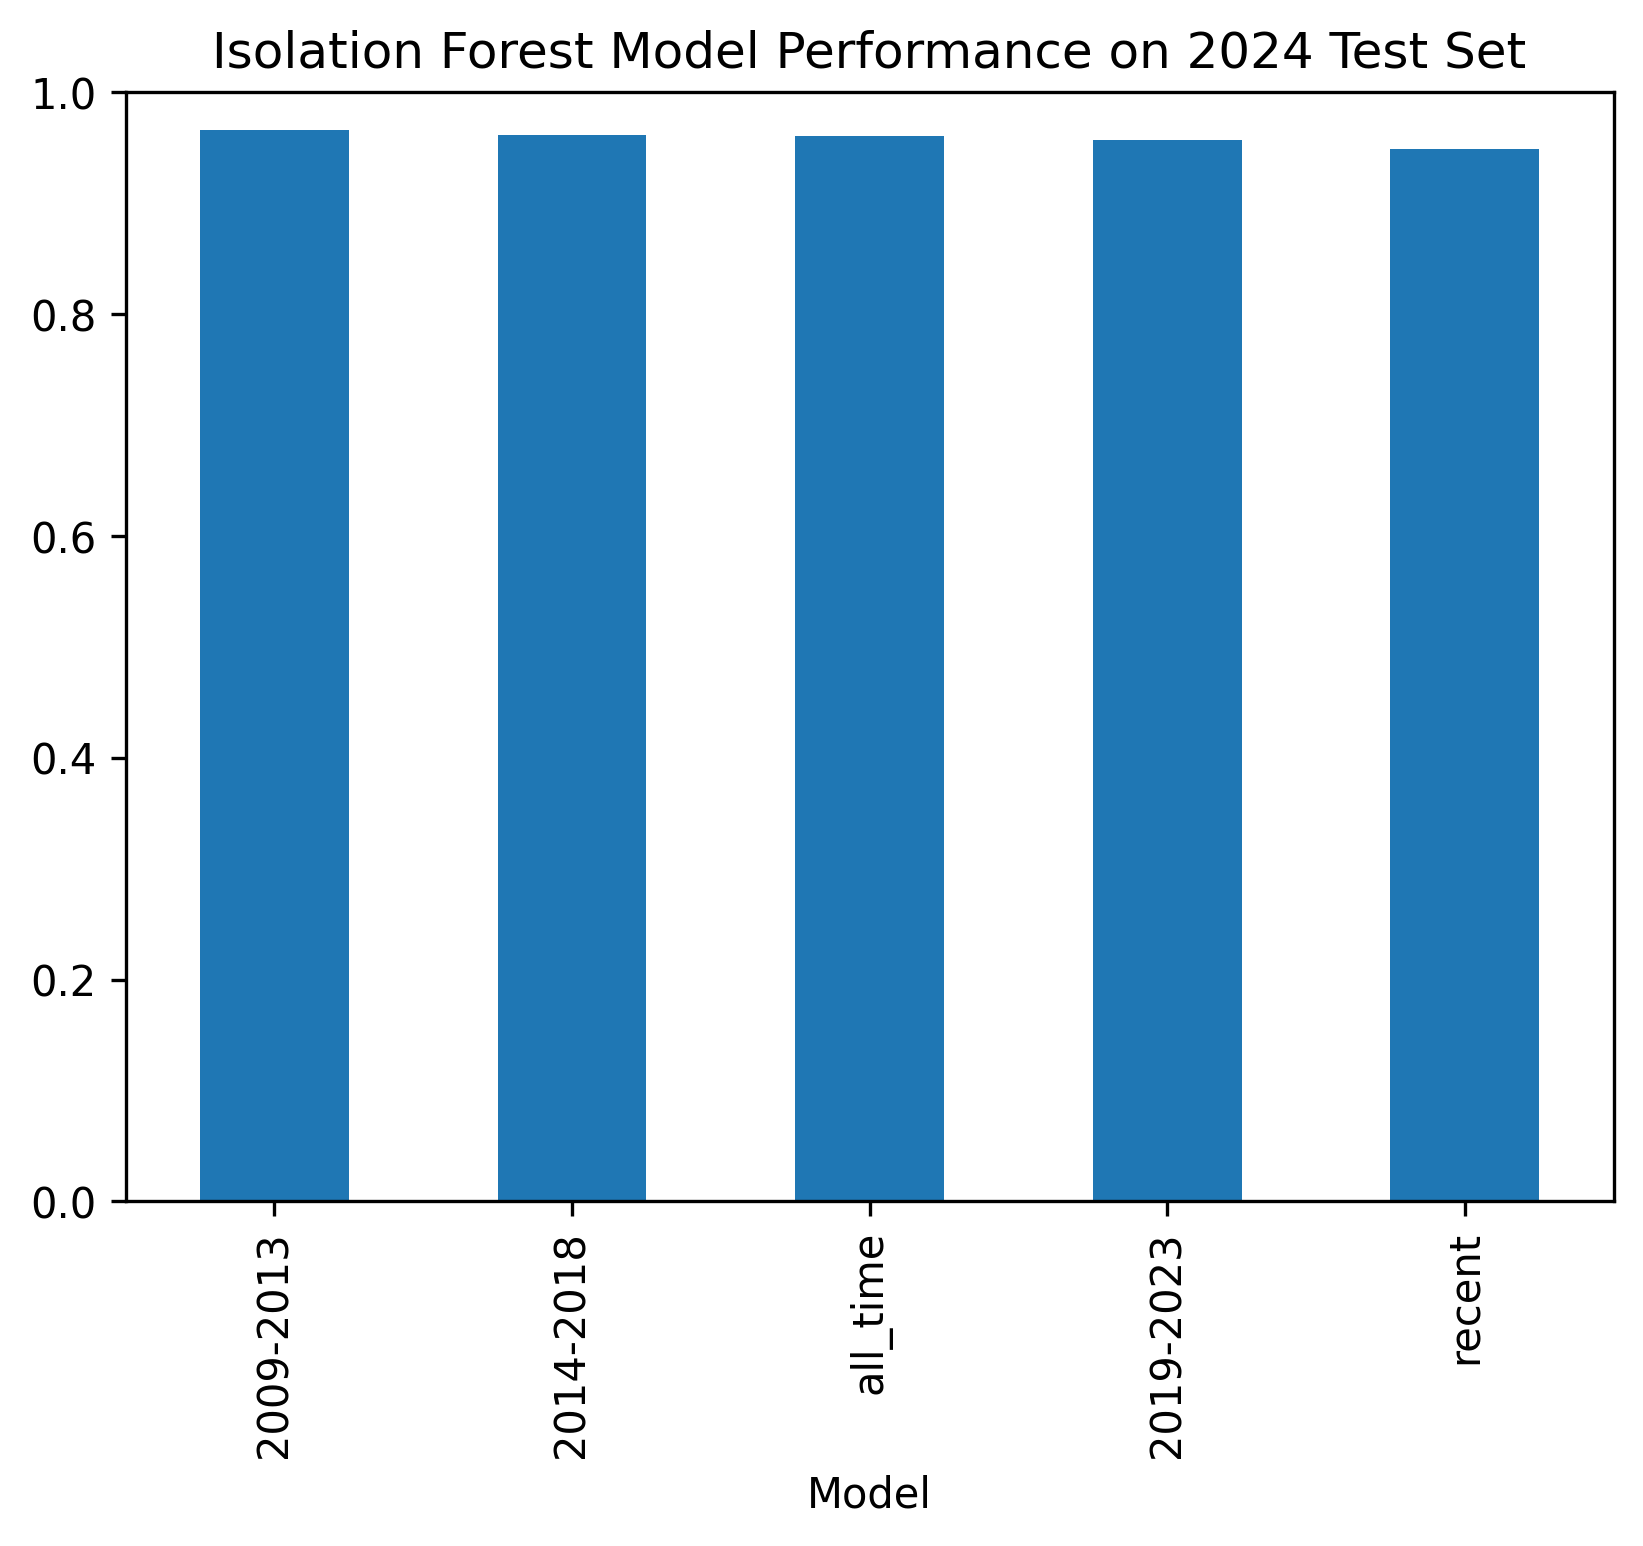
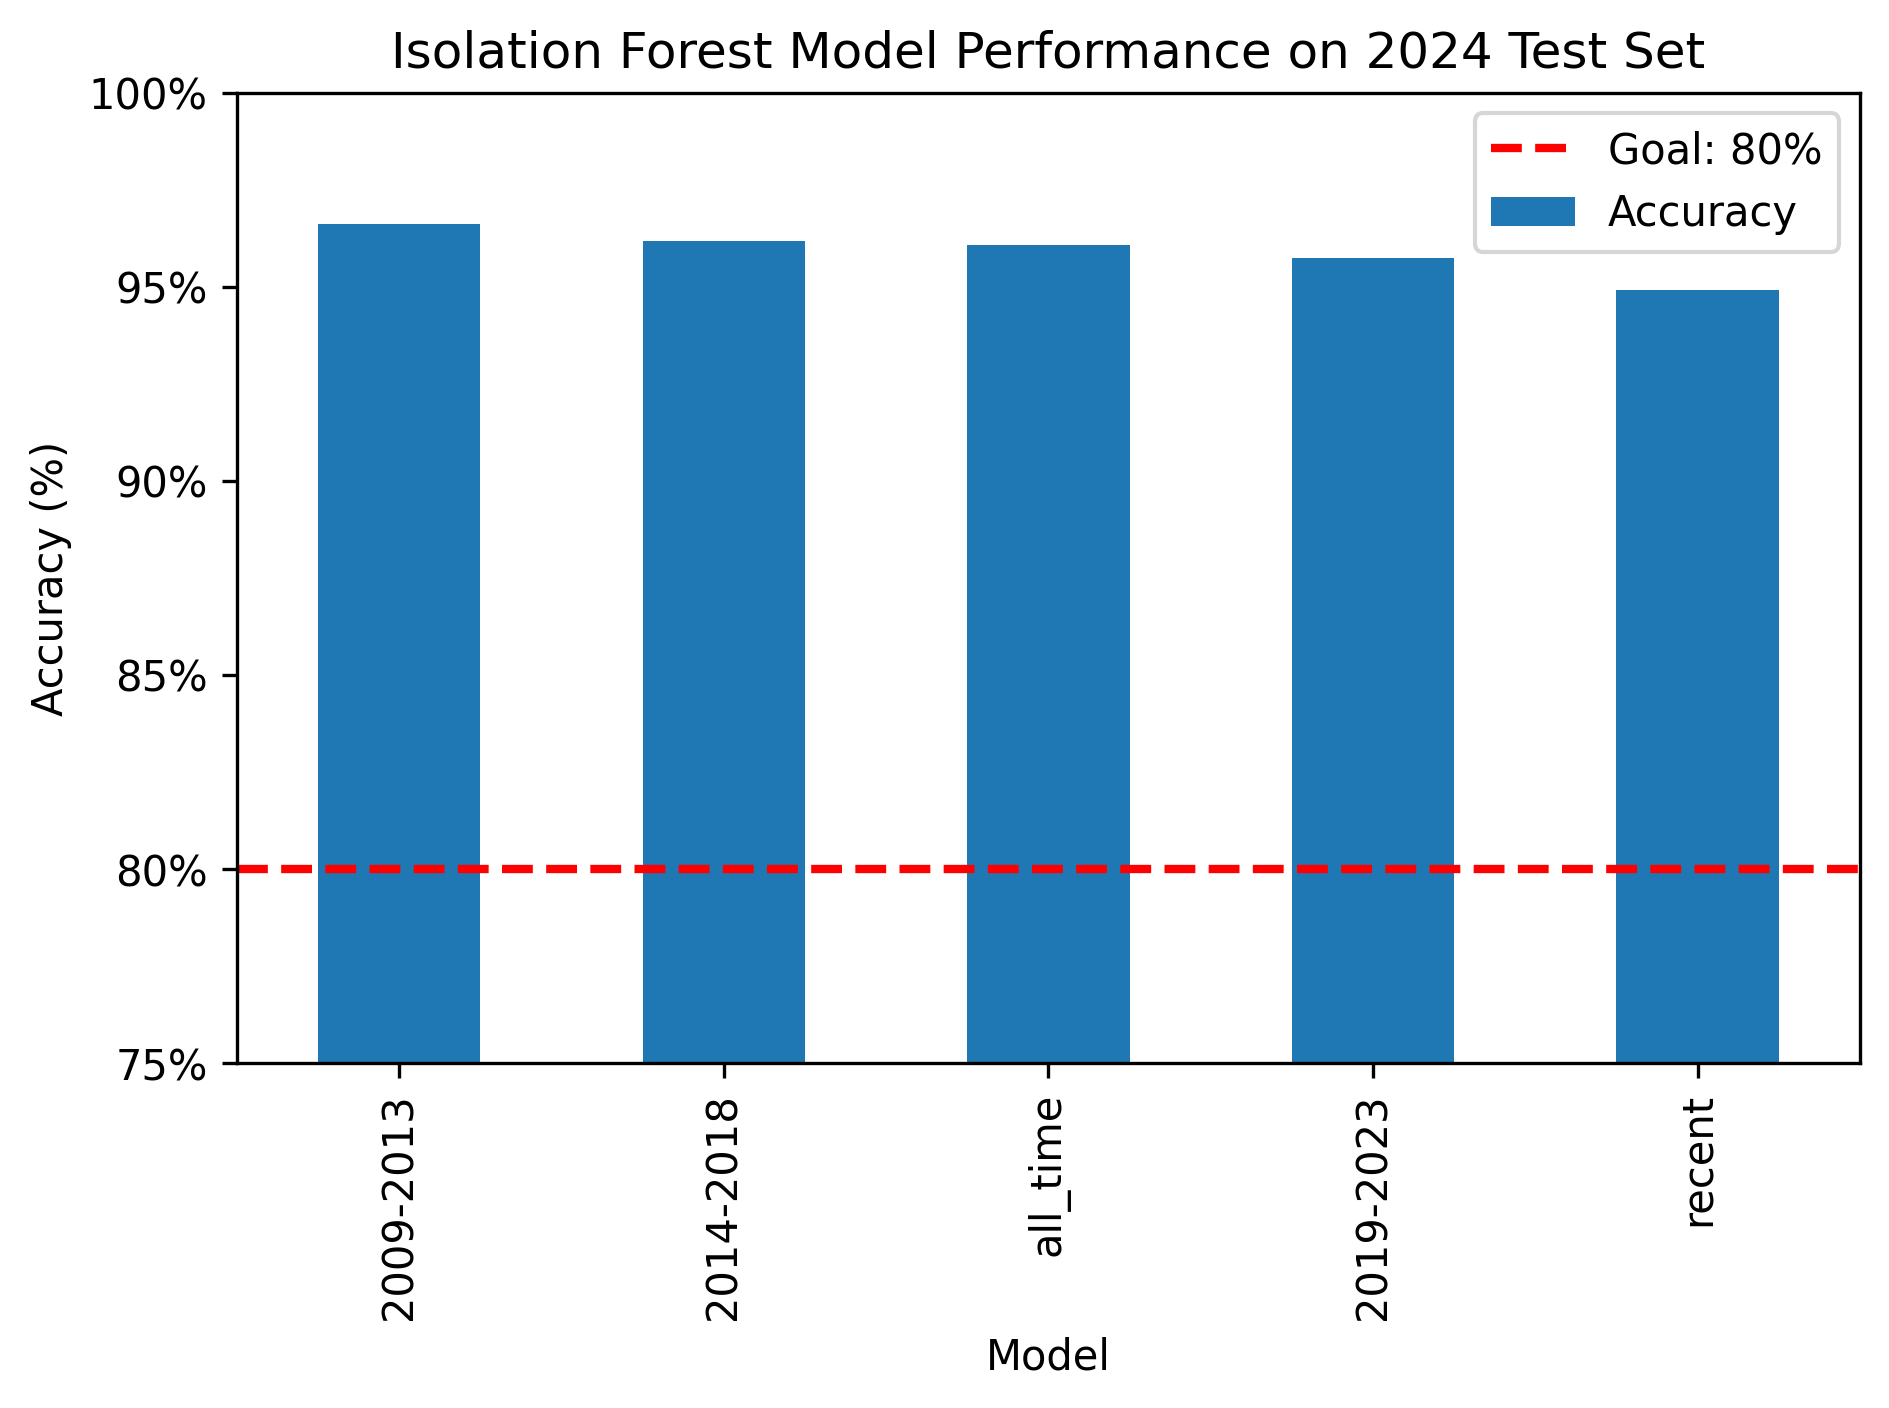
small fix to display

Changed region(s): [[0.0, 0.0, 0.9933, 0.9375], [0.4967, 0.9375, 0.5898, 1.0]]

diff --git a/SCRIPTS/score_models.py b/SCRIPTS/score_models.py
@@ -116,14 +116,6 @@ graph = results_df.plot.bar(
     x='Model',
     y='Accuracy',
     legend=False,
-    ylim=(0.75, 0.9),
-    title='Isolation Forest Model Performance on 2024 Test Set'
-)
-
-graph = results_df.plot.bar(
-    x='Model',
-    y='Accuracy',
-    legend=False,
     ylim=(0.75, 1),
     title='Isolation Forest Model Performance on 2024 Test Set'
 )
@@ -139,5 +131,5 @@ plt.axhline(y=0.8, color='red', linestyle='--', linewidth=2, label='Goal: 80%')
 
 plt.legend()
 plt.tight_layout()
-plt.savefig('model_performance.png', dpi=300, bbox_inches='tight')
-plt.show()
+plt.savefig('./OUTPUT/Final/model_performance.png', dpi=300, bbox_inches='tight')
+plt.close()
